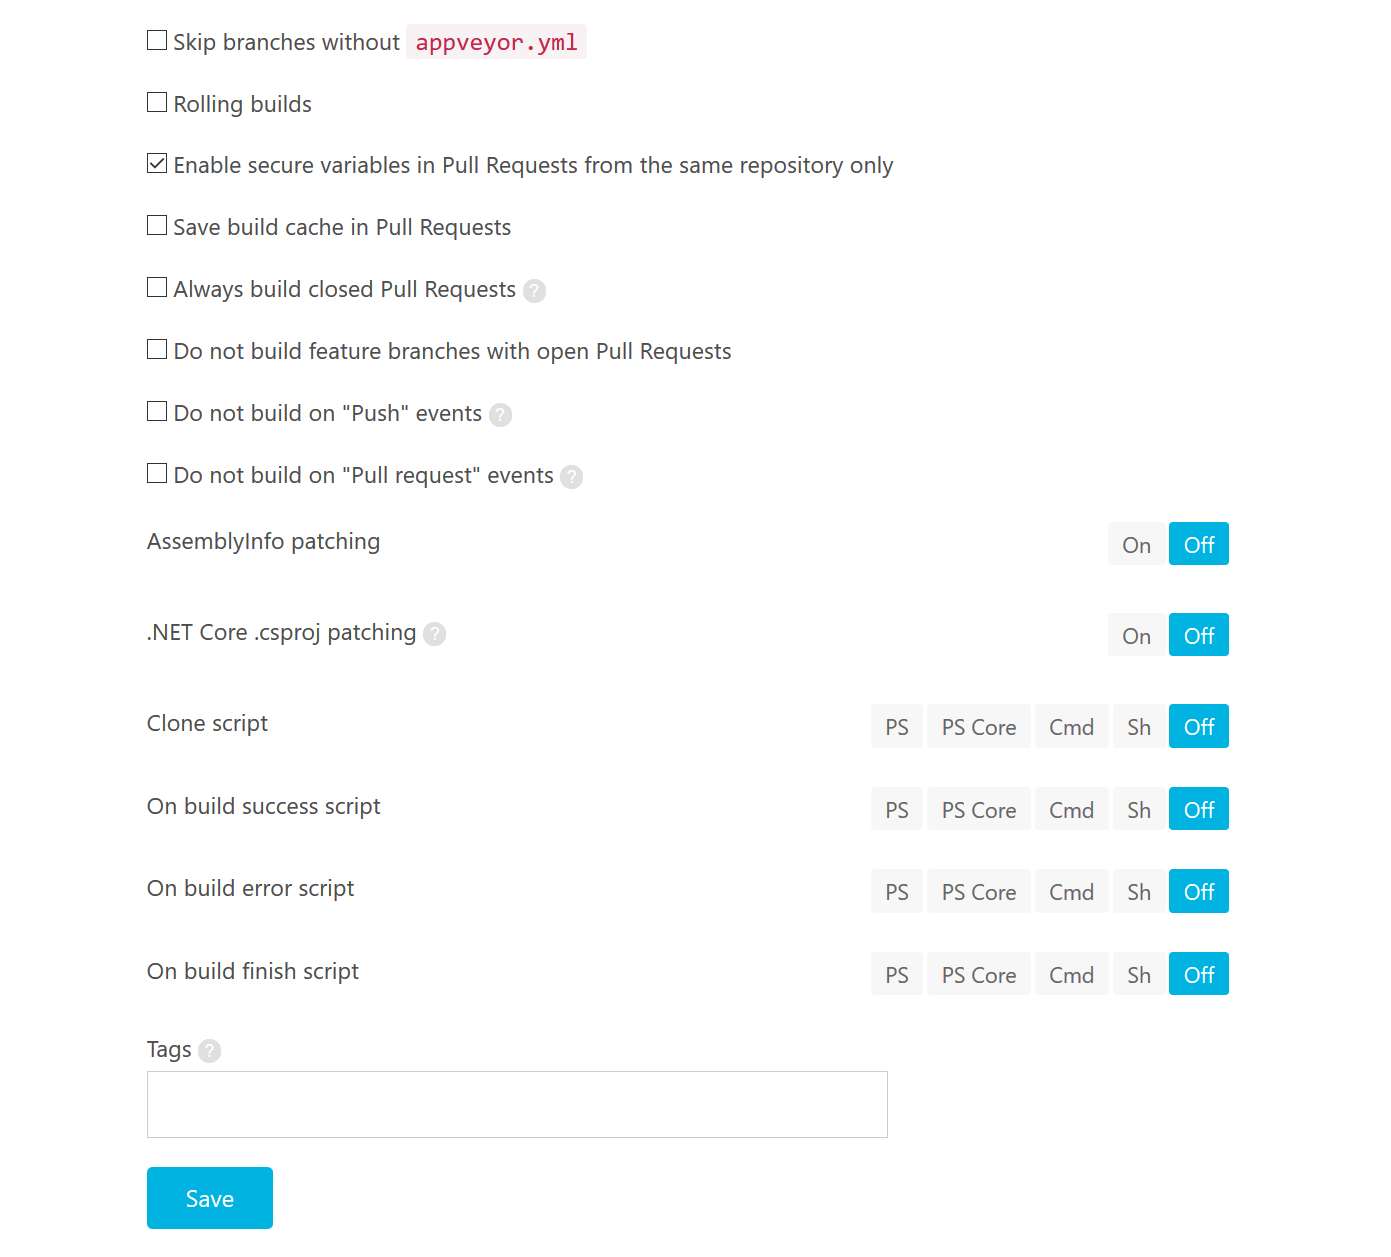
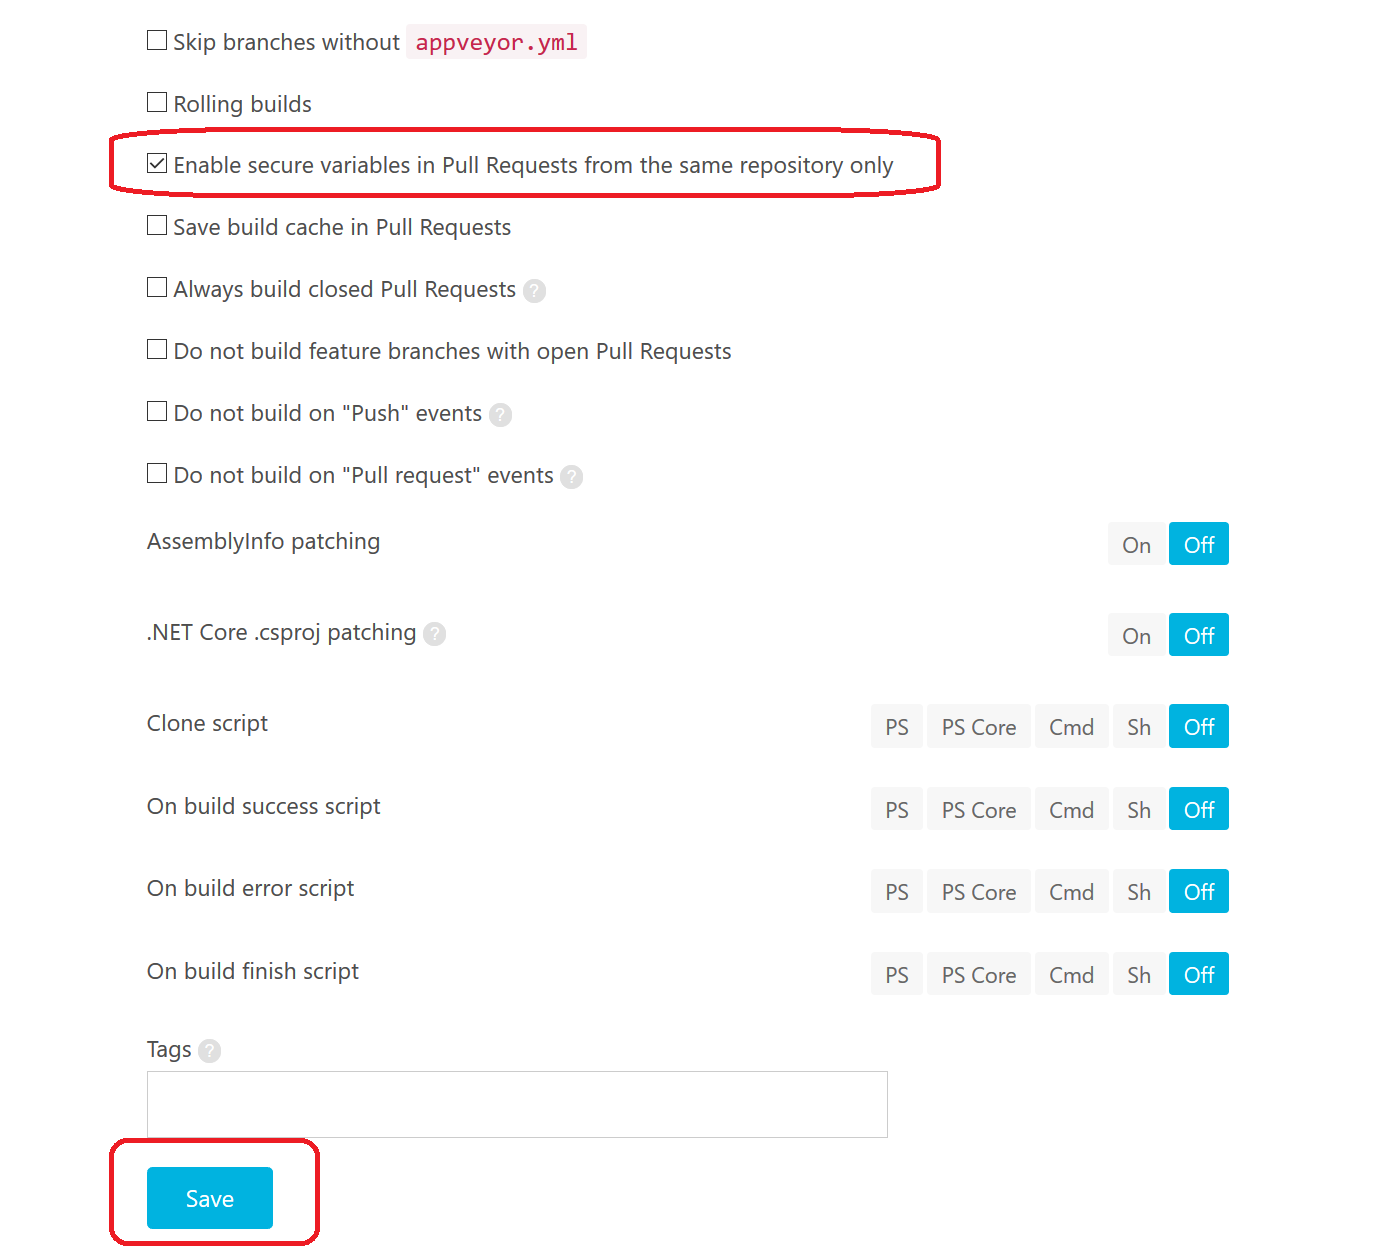
`Enable secure variables in Pull Requests from the same repository only` のスクリーンショットを追加

Changed region(s): [[0.0618, 0.0931, 0.6801, 0.1551], [0.0618, 0.8998, 0.2473, 0.9928]]

diff --git a/README.md b/README.md
@@ -117,8 +117,12 @@ environment:
 
 Pull Request 内では secure 変更は基本的には無効になります。
 
-ただし、`Enable secure variables in Pull Requests from the same repository only` の設定を有効にした場合
+ただし、`Settings` → `General` の `Enable secure variables in Pull Requests from the same repository only` の設定を有効にした場合
 Pull Request の送り元ブランチが、同じリポジトリの場合のみ例外的に secure 変数が有効になります。
+
+**設定変更後、忘れずに Save する必要があります。**
+
+![Enable secure variables in Pull Requests from the same repository only](image/enable-secure-variables-in-pull-requests-from-same-repo.png)
 
 参考: https://github.com/appveyor/ci/issues/2355#issuecomment-390803634
 
